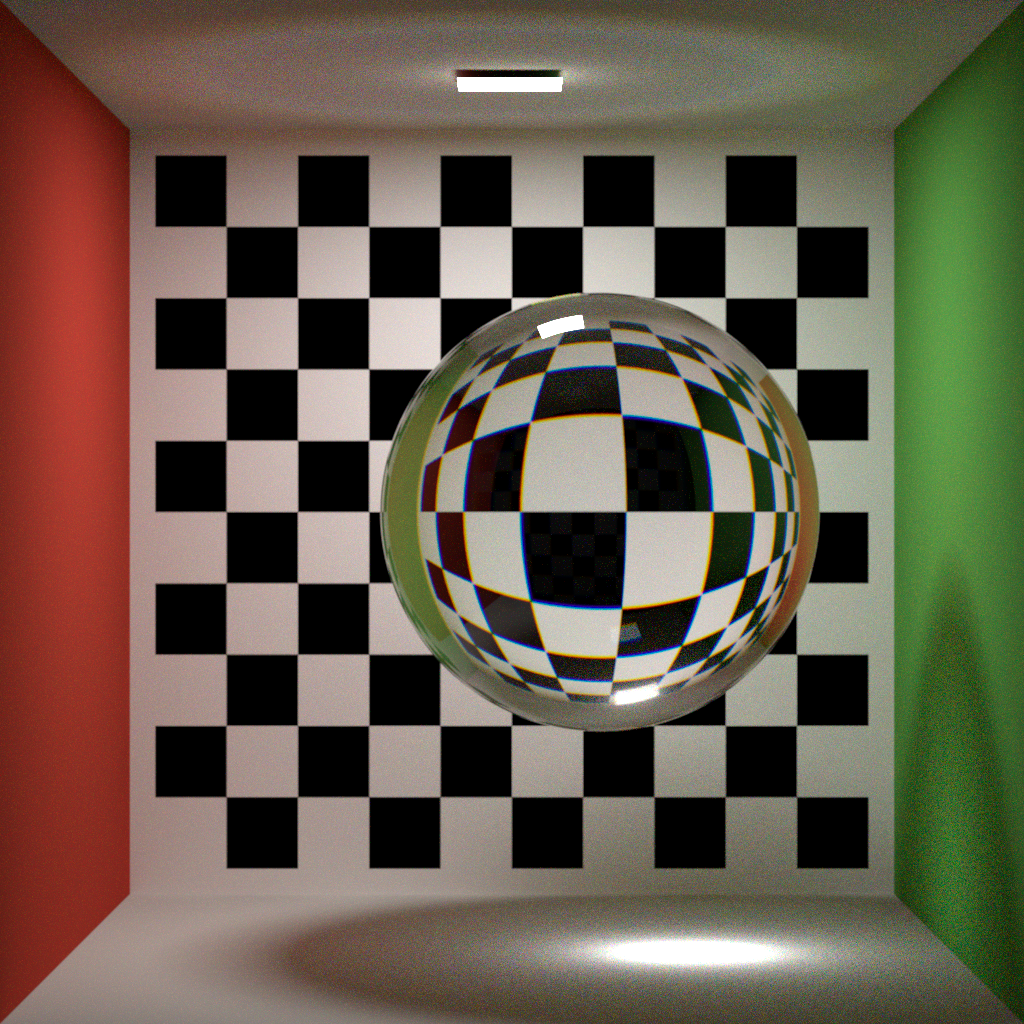
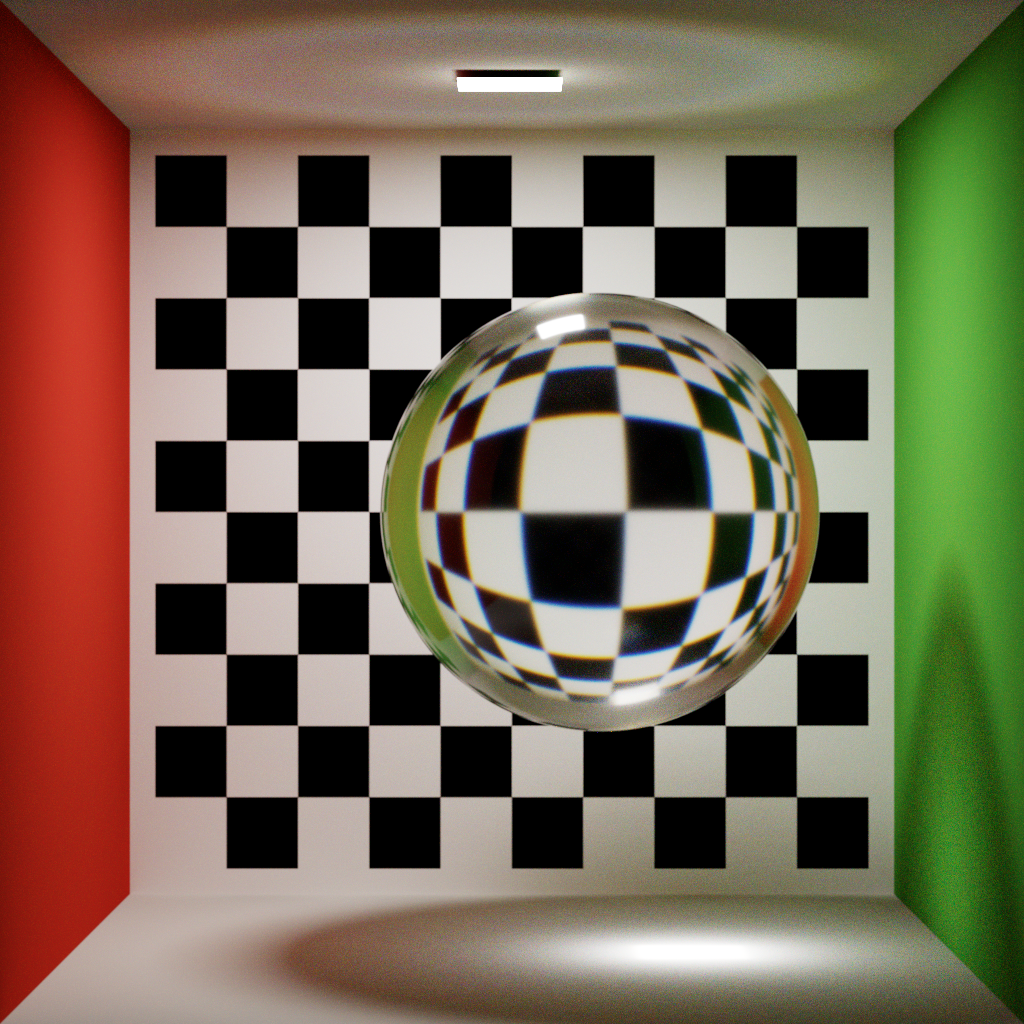
update readme

diff --git a/README.md b/README.md
@@ -45,6 +45,12 @@ The vision renderer uses embeded DSL codegen technology derived from luisa compu
 | ACES                         | Done        |
 | Reinhard                     | Done        |
 
+### Denoise
+| Feature                      | Progress    |
+|------------------------------|-------------|
+| OIDN                         | Planned     |
+| OptiX                        | Planned     |
+
 ### Sensor
 | Feature                                   | Progress    |
 |-------------------------------------------|-------------|
